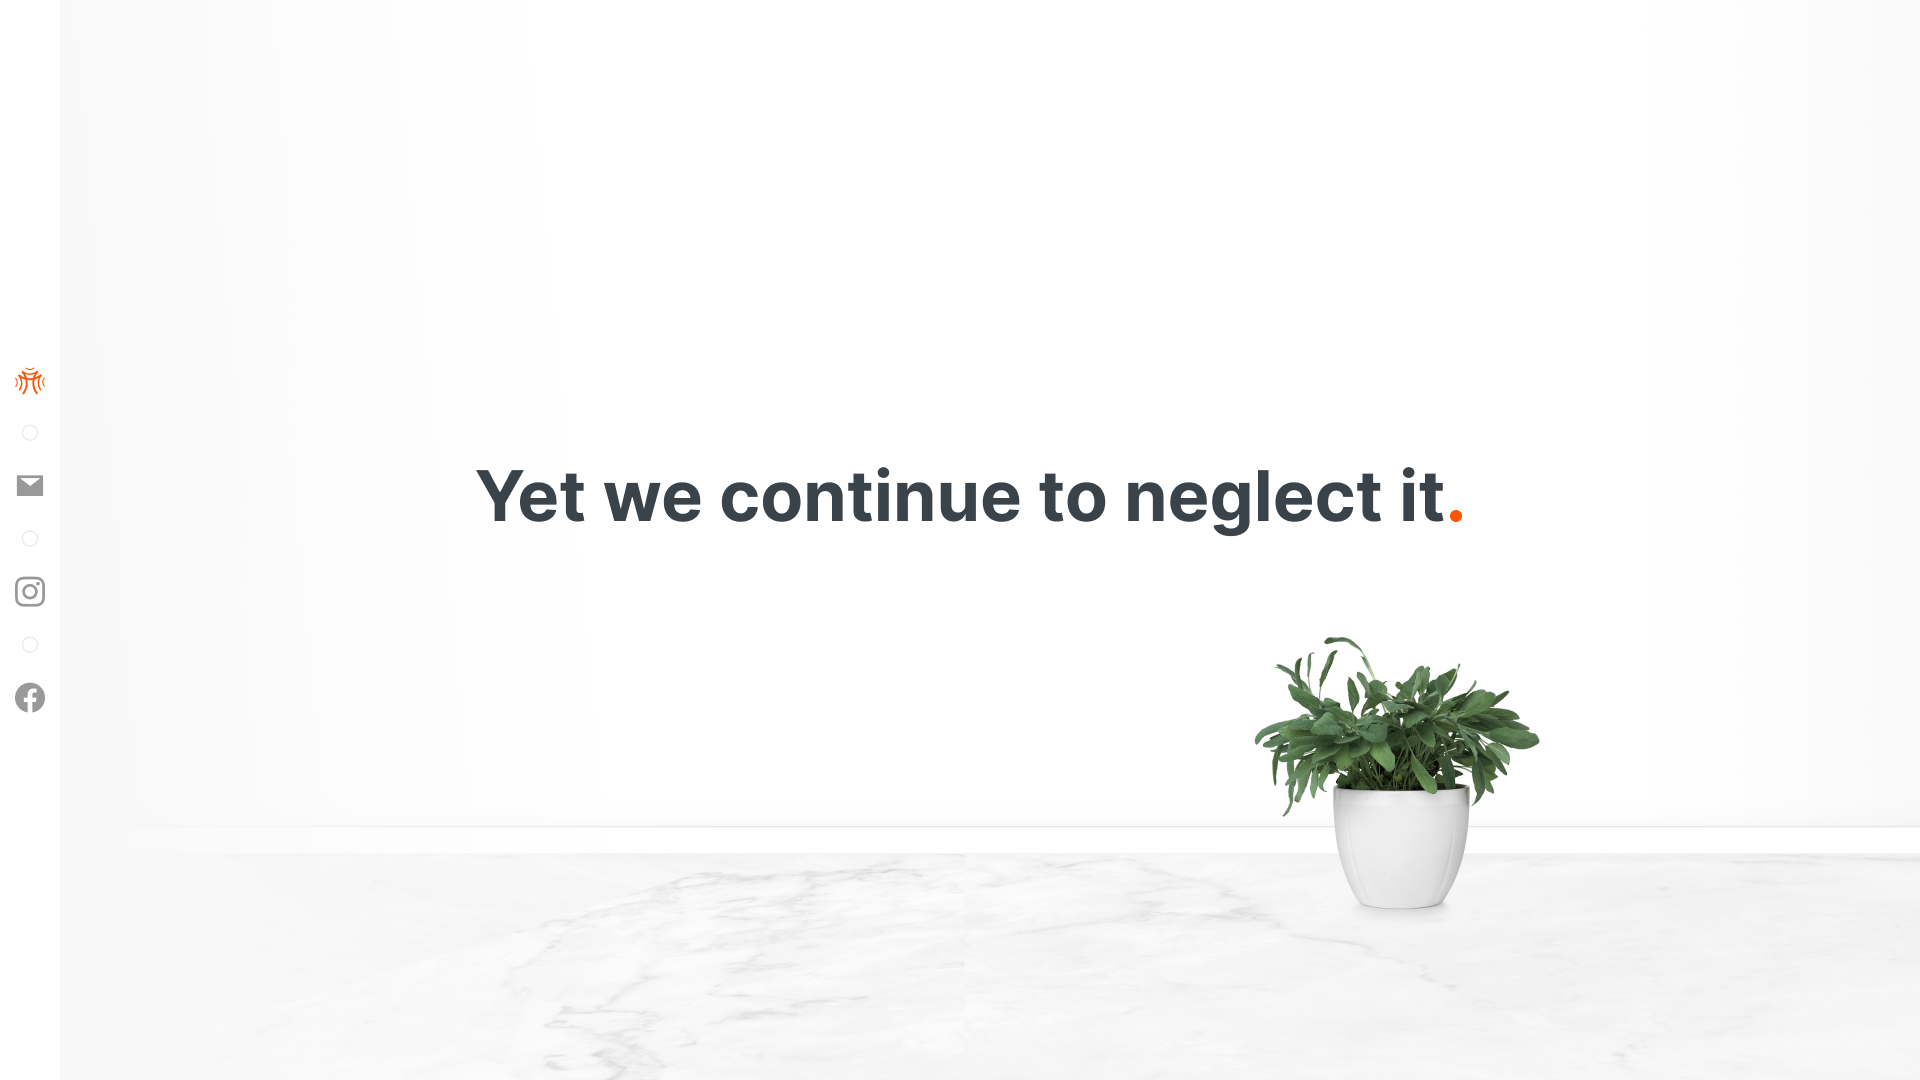
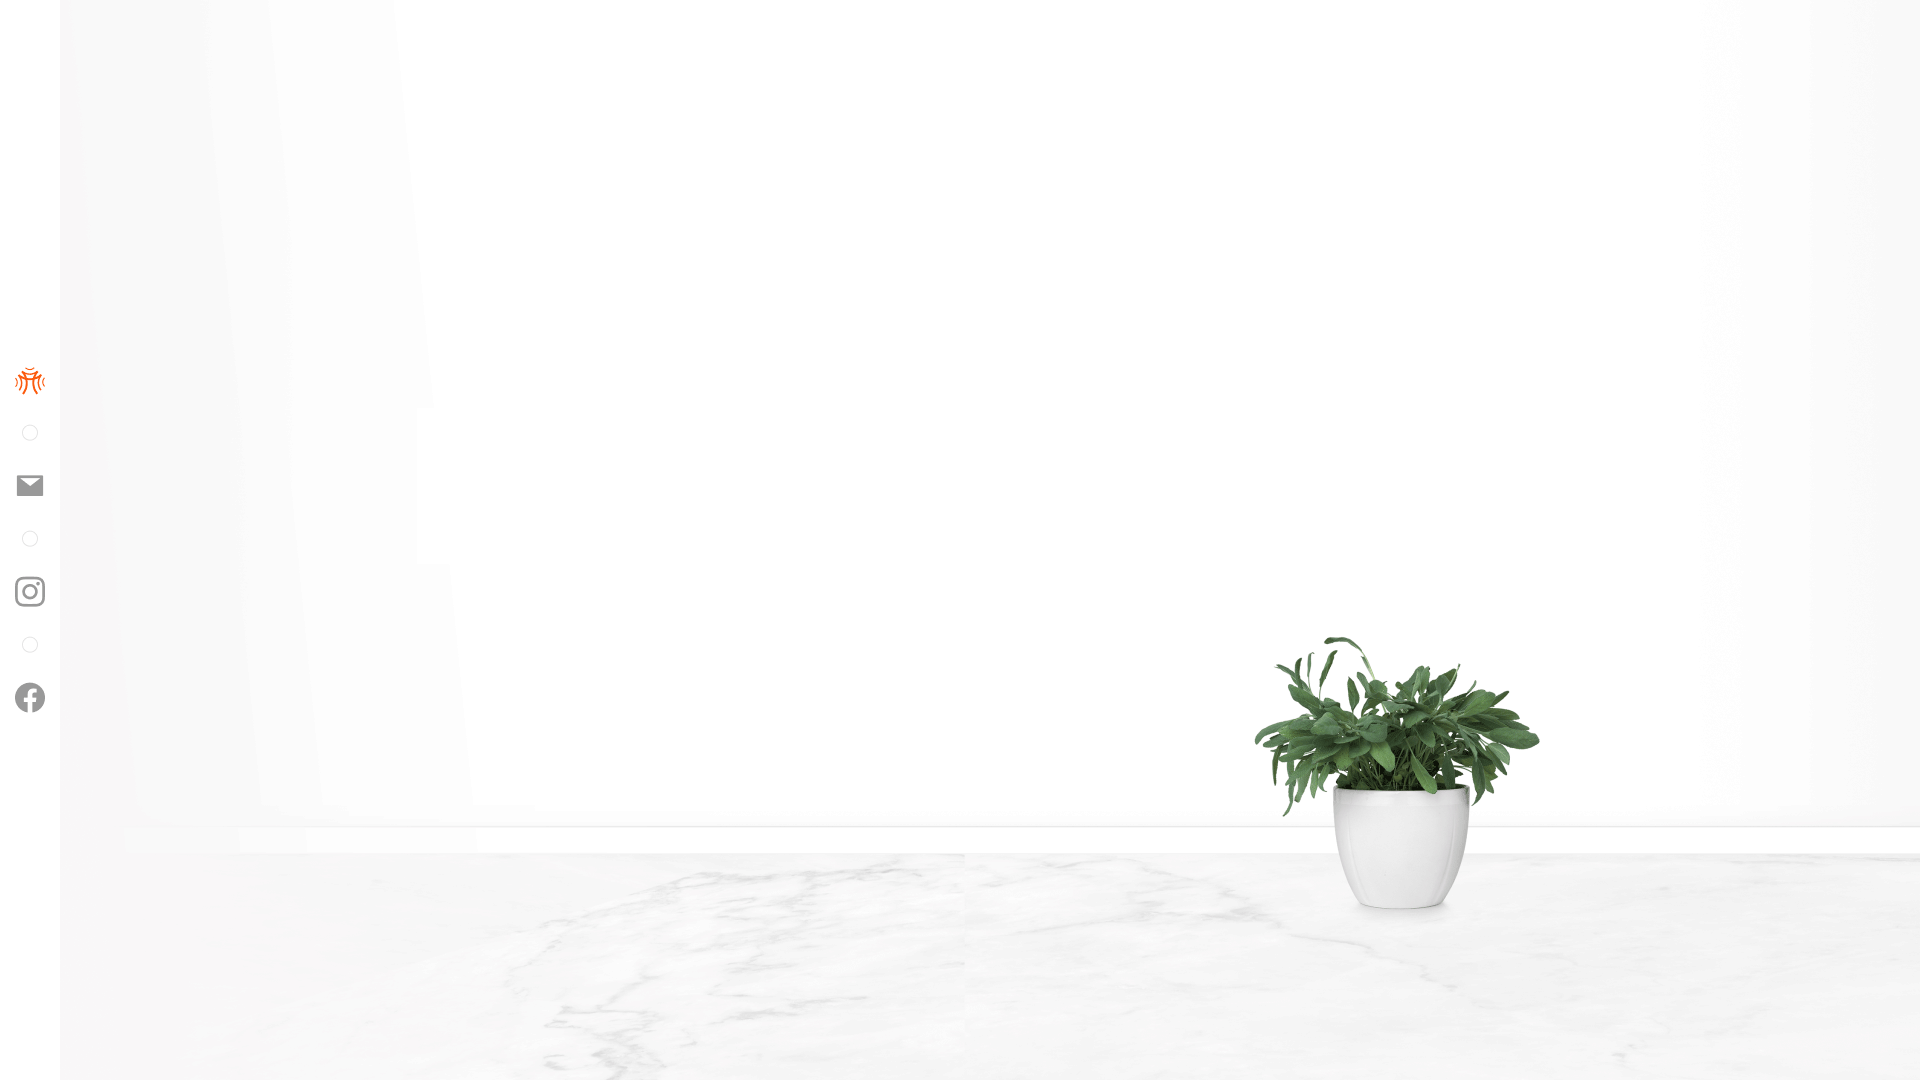
swap fully ready

Changed region(s): [[0.25, 0.4278, 0.75, 0.5194]]

diff --git a/index.html b/index.html
@@ -41,69 +41,7 @@
     <script type="text/javascript">
     </script>
     
-
     <!-- Example of a Graphics Scrolling Section -->
-    <!-- <div class="scroll-graphic container-fluid position-relative"> -->
-
-    
-
-
-      <!-- <div class="row d-flex flex-column justify-content-center  align-items-center">
-        <div class="swap-side" style="padding: 0;">
-          <div class="side-bar-swap">
-            <div class="side-icon-swap">
-              <img class="side-bar-icons-swap" src="/images/icons/side-bar-icon-1.png" width="21px" alt="">
-              <img class="side-bar-icons-swap" src="/images/icons/Vector (1).png" width="21px" alt="">
-              <img class="side-bar-icons-swap" src="/images/icons/Group.png" width="21px" alt="">
-              <img class="side-bar-icons-swap" src="/images/icons/Vector.png" width="21px" alt="">
-            </div>
-          </div>
-        </div>
-        <div class="graphic-text-box col-10 col-sm-6 col-md-4 spread-out">
-          
-          <p class="lead story swap-background">Lorem ipsum
-            dolor sit amet, consectetur adipisicing elit, sed do eiusmod tempor incididunt ut labore et dolore magna
-            aliqua. Ut enim ad minim veniam, quis nostrud exercitation ullamco laboris nisi ut aliquip ex ea commodo
-            consequat. Duis aute irure dolor in reprehenderit in voluptate velit esse cillum dolore eu fugiat nulla
-            pariatur. Excepteur sint occaecat cupidatat non proident, sunt in culpa qui officia deserunt mollit anim id
-            est laborum.</p>
-        </div>
-      </div> -->
-
-      <!-- <div class="row d-flex flex-column justify-content-center align-items-center align-items-sm-end">
-        <div class="swap-side" style="padding: 0;">
-          <div class="side-bar-swap">
-            <div class="side-icon-swap">
-              <img class="side-bar-icons-swap" src="/images/icons/side-bar-icon-1.png" width="21px" alt="">
-              <img class="side-bar-icons-swap" src="/images/icons/Vector (1).png" width="21px" alt="">
-              <img class="side-bar-icons-swap" src="/images/icons/Group.png" width="21px" alt="">
-              <img class="side-bar-icons-swap" src="/images/icons/Vector.png" width="21px" alt="">
-            </div>
-          </div>
-        </div>
-        <div class="graphic-text-box col-10 col-sm-6 col-md-4 story me-sm-5 spread-out"
-          data-image="https://source.unsplash.com/SYx3UCHZJlo/1920x1280">
-          <p class="lead bg-light">Lorem ipsum dolor sit amet, consectetur adipisicing elit, sed do eiusmod tempor
-            incididunt ut labore et dolore magna aliqua. Ut enim ad minim veniam, quis nostrud exercitation ullamco
-            laboris nisi ut aliquip ex ea commodo consequat. Duis aute irure dolor in reprehenderit in voluptate velit
-            esse cillum dolore eu fugiat nulla pariatur. Excepteur sint occaecat cupidatat non proident, sunt in culpa
-            qui officia deserunt mollit anim id est laborum.</p>
-        </div>
-      </div>
-
-      <div class="row d-flex flex-column justify-content-center align-items-center align-items-sm-start">
-        <div class="graphic-text-box col-10 offset-sm-1 col-sm-6 col-md-4 spread-out">
-          <p class="lead bg-light story" data-image="https://source.unsplash.com/wHaBKOHT5TY/1920x1280">Lorem ipsum
-            dolor sit amet, consectetur adipisicing elit, sed do eiusmod tempor incididunt ut labore et dolore magna
-            aliqua. Ut enim ad minim veniam, quis nostrud exercitation ullamco laboris nisi ut aliquip ex ea commodo
-            consequat. Duis aute irure dolor in reprehenderit in voluptate velit esse cillum dolore eu fugiat nulla
-            pariatur. Excepteur sint occaecat cupidatat non proident, sunt in culpa qui officia deserunt mollit anim id
-            est laborum.</p>
-        </div>
-      </div>
-    </div> -->
-
-
     <div class="scroll-graphic container-fluid position-relative">
       <div class="row d-flex flex-column justify-content-center  align-items-center">
         <div class="swap-side" style="padding: 0;">
@@ -116,13 +54,9 @@
             </div>
           </div>
         </div>
-        <div class="graphic-text-box col-10 col-sm-6 col-md-4 spread-out" data-image="/images/animation1.png">
-          <p class="lead story swap-background">Lorem ipsum
-            dolor sit amet, consectetur adipisicing elit, sed do eiusmod tempor incididunt ut labore et dolore magna
-            aliqua. Ut enim ad minim veniam, quis nostrud exercitation ullamco laboris nisi ut aliquip ex ea commodo
-            consequat. Duis aute irure dolor in reprehenderit in voluptate velit esse cillum dolore eu fugiat nulla
-            pariatur. Excepteur sint occaecat cupidatat non proident, sunt in culpa qui officia deserunt mollit anim id
-            est laborum.</p>
+        <div class="graphic-text-box col-md-8 spread-out" data-image="/images/animation1.png">
+          <h1 class="swap-heading">Hello Heal</h1>
+          <p class="">Heal is an immersive, multi-sensory meditation portal to improve <br> mental health and sustain peak performance.</p>
         </div>
       </div>
 
@@ -137,17 +71,12 @@
             </div>
           </div>
         </div>
-        <div class="graphic-text-box col-10 col-sm-6 col-md-4 story me-sm-5 spread-out"
-          data-image="/images/animation2.png">
-          <p class="lead bg-light">Lorem ipsum dolor sit amet, consectetur adipisicing elit, sed do eiusmod tempor
-            incididunt ut labore et dolore magna aliqua. Ut enim ad minim veniam, quis nostrud exercitation ullamco
-            laboris nisi ut aliquip ex ea commodo consequat. Duis aute irure dolor in reprehenderit in voluptate velit
-            esse cillum dolore eu fugiat nulla pariatur. Excepteur sint occaecat cupidatat non proident, sunt in culpa
-            qui officia deserunt mollit anim id est laborum.</p>
+        <div class="graphic-text-box col-md-8 spread-out" data-image="/images/animation1.png">
+          <h1 class="swap-heading">Not anymore</h1>
         </div>
       </div>
 
-      <div class="row d-flex flex-column justify-content-center align-items-center align-items-sm-start">
+      <div class="row d-flex flex-column justify-content-center align-items-center align-items-sm-end">
         <div class="swap-side" style="padding: 0;">
           <div class="side-bar-swap">
             <div class="side-icon-swap">
@@ -158,16 +87,12 @@
             </div>
           </div>
         </div>
-        <div class="graphic-text-box col-10 offset-sm-1 col-sm-6 col-md-4 spread-out">
-          <p class="lead bg-light story" data-image="/images/animation3.png">Lorem ipsum
-            dolor sit amet, consectetur adipisicing elit, sed do eiusmod tempor incididunt ut labore et dolore magna
-            aliqua. Ut enim ad minim veniam, quis nostrud exercitation ullamco laboris nisi ut aliquip ex ea commodo
-            consequat. Duis aute irure dolor in reprehenderit in voluptate velit esse cillum dolore eu fugiat nulla
-            pariatur. Excepteur sint occaecat cupidatat non proident, sunt in culpa qui officia deserunt mollit anim id
-            est laborum.</p>
+        <div class="graphic-text-box col-md-8 spread-out" data-image="/images/animation1.png">
+          <h1 class="swap-heading">Yet we continue to neglect it</h1>
         </div>
-      </div>
-      <div class="row d-flex flex-column justify-content-center align-items-center align-items-sm-start">
+      </div> 
+
+      <div class="row d-flex flex-column justify-content-center align-items-center align-items-sm-end">
         <div class="swap-side" style="padding: 0;">
           <div class="side-bar-swap">
             <div class="side-icon-swap">
@@ -178,19 +103,13 @@
             </div>
           </div>
         </div>
-        <div class="graphic-text-box col-10 offset-sm-1 col-sm-6 col-md-4 spread-out">
-          <p class="lead bg-light story"data-image="/images/animation2.png">Lorem ipsum
-            dolor sit amet, consectetur adipisicing elit, sed do eiusmod tempor incididunt ut labore et dolore magna
-            aliqua. Ut enim ad minim veniam, quis nostrud exercitation ullamco laboris nisi ut aliquip ex ea commodo
-            consequat. Duis aute irure dolor in reprehenderit in voluptate velit esse cillum dolore eu fugiat nulla
-            pariatur. Excepteur sint occaecat cupidatat non proident, sunt in culpa qui officia deserunt mollit anim id
-            est laborum.</p>
+        <div class="graphic-text-box col-md-8 spread-out" data-image="/images/animation1.png">
+          <h1 class="swap-heading">Mental health is more of a priority now than ever before</h1>
         </div>
-      </div>
+      </div> 
       
     </div>
     <!-- close container -->
-
   </section>
   <!-- responsive-banner -->
   <section>
@@ -265,7 +184,6 @@
         </div>
       </div>
       <div class="col-md-5  banner-img">
-
       </div>
     </div>
   </div>

diff --git a/style.css b/style.css
@@ -10,6 +10,9 @@ body {
 }
 
 /* swap-slider */
+.swap-heading{
+  font-weight: 700;
+}
 .swap-side{
   position: -webkit-sticky;
   position: sticky;
@@ -21,7 +24,7 @@ body {
 .side-bar-swap {
   width: 50px;
   height: 805px;
-  background-color: #d37a7a;
+  background-color: #ffffff;
 }
 .side-icon-swap {
   padding-top: 110px;
